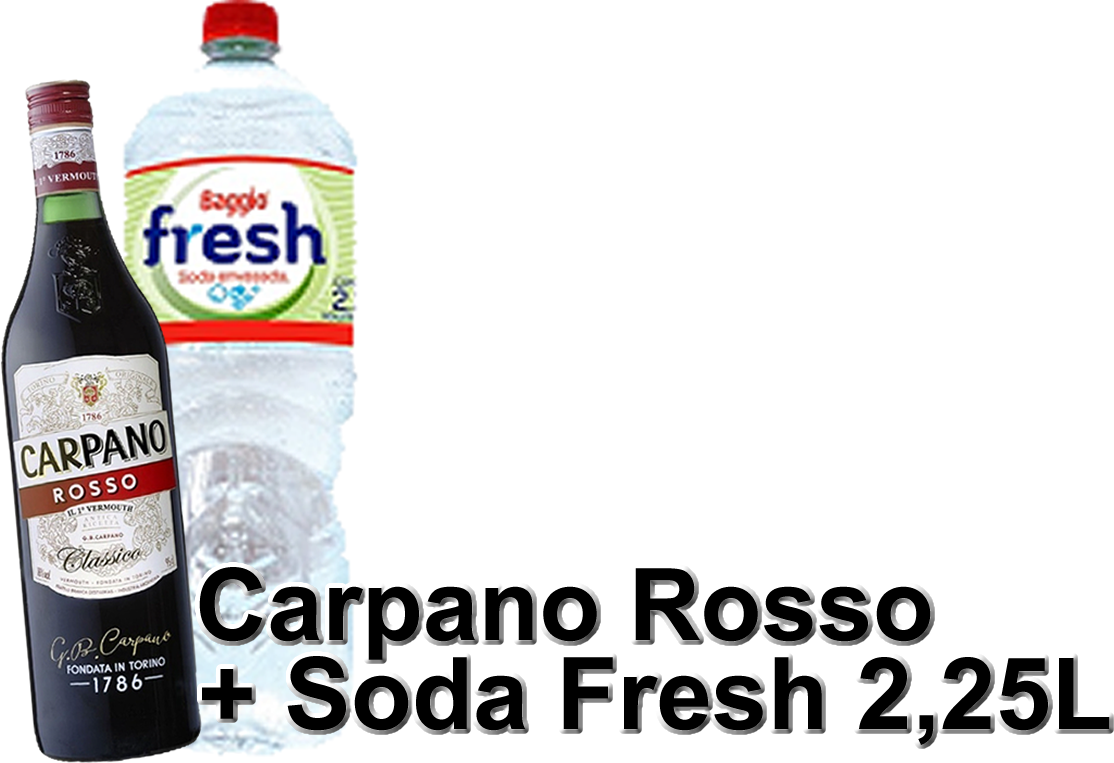
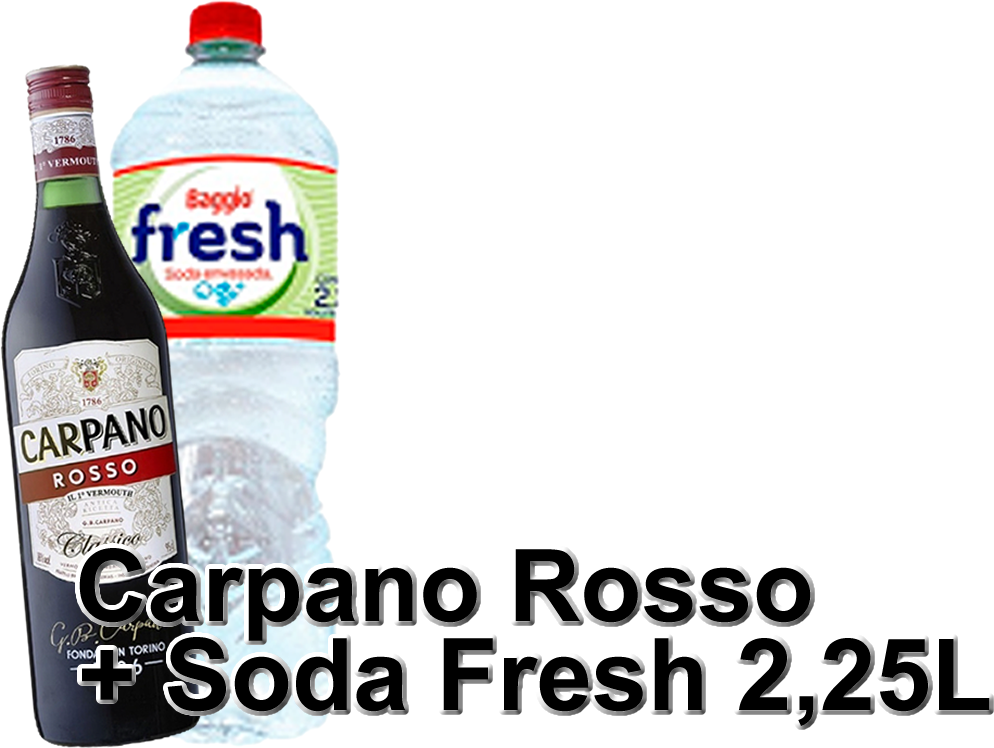
mejora de carusel

diff --git a/css/styles.css b/css/styles.css
@@ -353,63 +353,13 @@ td:nth-child(3) {
   justify-content: center;
 }
 
-.carousel {
-  margin: 10px auto;
-  width: 100%;
-  max-width: 400px;       /* Límite de ancho */
-  height: auto;
-  border-radius: 16px;
-  overflow: hidden;
- 
-}
 
-.carousel img {
-  height: 180px;         /* <-- fijamos altura también aquí */
-  max-height: 180px;
-  object-fit: contain;
-  width: 100%;
-  display: block;
-  transition: opacity 0.5s ease-in-out;
-  background-color: rgba(255, 255, 255, 0);
-  border-radius: 16px;
-}
 
-.promo-carousel-wrapper {
-  width: 100%;
-  max-width: 800px;
-  overflow: hidden;
-  border-radius: 16px;
-  touch-action: pan-y; /* permite swipe horizontal sin bloquear el scroll */
-  margin-bottom: 20px;
-  position: relative;
-}
 
-.promo-carousel-track {
-  display: flex;
-  transition: transform 0.6s ease-in-out;
-  will-change: transform;
-  cursor: grab; /* para que se note que es interactivo en desktop */
-}
 
-.promo-carousel-track img {
-  width: 100%;
-  flex: 0 0 100%;
-  object-fit: contain; /* mantener proporción */
-  height: 180px;        /* <-- Cambiado de auto a valor controlado */
-  max-height: 180px;
-  user-select: none;
-  pointer-events: none;
-  background-color: rgba(247, 208, 255, 0);
-  border-radius: 16px;
-}
 
-@media (max-width: 480px) {
-  .promo-carousel-track img,
-  .carousel img {
-    height: 140px;
-    max-height: 140px;
-  }
-}
+
+
 
 .main-footer {
   margin-top: auto;
@@ -428,3 +378,107 @@ td:nth-child(3) {
 }
 
 
+/* === Promo Banner Mejorado === */
+.promo-banner {
+  width: 100%;
+  max-width: 800px;
+  background: linear-gradient(135deg, var(--finn), var(--cosmic-2));
+  padding: 20px;
+  border-radius: 16px;
+  margin: 20px auto;
+  box-shadow: 0 10px 25px rgba(0, 0, 0, 0.1);
+  color: white;
+}
+
+.promo-banner-header h2 {
+  margin: 0 0 10px;
+  font-size: 1.6rem;
+  text-align: center;
+  color: white;
+}
+
+.promo-carousel-wrapper {
+  width: 100%;
+  max-width: 800px;
+  height: 180px;
+  overflow: hidden;
+  border-radius: 16px;
+  position: relative;
+}
+
+
+.promo-carousel-track {
+  display: flex;
+  transition: transform 0.5s ease-in-out;
+}
+
+.promo-carousel-track img {
+  flex: 0 0 calc(100% / 3);
+  max-height: 140px; /* achica el alto visible */
+  width: 100%;
+  object-fit: contain;
+  padding: 10px;
+  border-radius: 12px;
+  background: rgba(255, 255, 255, 0.048);
+  box-shadow: 0 3px 10px rgba(0, 0, 0, 0.1);
+   margin-right: 5px;
+}
+
+
+.promo-indicators {
+  text-align: center;
+  margin-top: 10px;
+}
+
+.promo-dot {
+  height: 10px;
+  width: 10px;
+  margin: 0 5px;
+  background-color: rgba(255, 255, 255, 0.5);
+  border-radius: 50%;
+  display: inline-block;
+  transition: background-color 0.3s ease;
+}
+
+.promo-dot.active {
+  background-color: rgba(0, 0, 0, 0);
+}
+
+
+
+.promo-carousel-wrapper {
+  overflow: hidden;
+  border-radius: 20px;
+  box-shadow: 0 12px 25px rgba(0, 0, 0, 0.062);
+  background: linear-gradient(145deg, var(--finn), var(--cosmic-2));
+  padding: 10px;
+  height: auto;
+  padding-bottom: 10px;
+}
+
+.promo-dot {
+  height: 12px;
+  width: 12px;
+  margin: 0 06px;
+  background-color: rgba(255, 255, 255, 0.4);
+  border: 2px solid rgba(255, 255, 255, 0);
+  border-radius: 50%;
+  display: inline-block;
+}
+
+.promo-dot.active {
+  background-color: #ffffff00;
+}
+
+@media (max-width: 768px) {
+  .promo-carousel-track img {
+    height: 120px;
+  }
+}
+
+@media (max-width: 480px) {
+  .promo-carousel-track img {
+    height: 100px;
+    flex: 0 0 calc(100% / 2); /* 2 por fila en celulares chicos */
+  }
+}

diff --git a/js/main.js b/js/main.js
@@ -6,19 +6,53 @@ const scanHistory = [];
 
 function setupCarousel() {
   const track = document.getElementById('promo-carousel-track');
-  if (!track) return;
+  const indicatorsContainer = document.getElementById('promo-indicators');
+  if (!track || !indicatorsContainer) return;
 
-  const slides = track.querySelectorAll('img');
+  const visibleSlides = 3;
+  let slides = Array.from(track.querySelectorAll('img'));
+
+  // Clonar imágenes si el total no es múltiplo de 3
+  const totalSlides = slides.length;
+  const remainder = totalSlides % visibleSlides;
+  if (remainder !== 0) {
+    const clonesNeeded = visibleSlides - remainder;
+    for (let i = 0; i < clonesNeeded; i++) {
+      const clone = slides[i % totalSlides].cloneNode(true);
+      track.appendChild(clone);
+    }
+    slides = Array.from(track.querySelectorAll('img')); // Actualizar la lista
+  }
+
+  const totalGroups = slides.length / visibleSlides;
   let index = 0;
   let interval;
 
+  // Crear indicadores
+  indicatorsContainer.innerHTML = '';
+  for (let i = 0; i < totalGroups; i++) {
+    const dot = document.createElement('span');
+    dot.classList.add('promo-dot');
+    if (i === 0) dot.classList.add('active');
+    indicatorsContainer.appendChild(dot);
+  }
+
+  const dots = indicatorsContainer.querySelectorAll('.promo-dot');
+
+  function updateIndicators() {
+    dots.forEach((dot, i) => {
+      dot.classList.toggle('active', i === index);
+    });
+  }
+
   function moveCarousel() {
-    index = (index + 1) % slides.length;
-    track.style.transform = `translateX(-${index * 100}%)`;
+    index = (index + 1) % totalGroups;
+    track.style.transform = `translateX(-${(100 / totalGroups) * index}%)`;
+    updateIndicators();
   }
 
   function startCarousel() {
-    stopCarousel(); // por seguridad, limpia primero
+    stopCarousel();
     interval = setInterval(moveCarousel, 4000);
   }
 
@@ -26,39 +60,34 @@ function setupCarousel() {
     if (interval) clearInterval(interval);
   }
 
-  // Soporte desktop: Pausar con mouse
+  // Eventos
   track.addEventListener('mouseenter', stopCarousel);
   track.addEventListener('mouseleave', startCarousel);
 
-  // Soporte táctil (mobile)
   let startX = 0;
-  let moved = false;
-
   track.addEventListener('touchstart', (e) => {
     startX = e.touches[0].clientX;
     stopCarousel();
-  });
-
-  track.addEventListener('touchmove', () => {
-    moved = true;
   });
 
   track.addEventListener('touchend', (e) => {
     const deltaX = e.changedTouches[0].clientX - startX;
     if (Math.abs(deltaX) > 50) {
       if (deltaX < 0) {
-        index = (index + 1) % slides.length;
+        index = (index + 1) % totalGroups;
       } else {
-        index = (index - 1 + slides.length) % slides.length;
+        index = (index - 1 + totalGroups) % totalGroups;
       }
-      track.style.transform = `translateX(-${index * 100}%)`;
+      track.style.transform = `translateX(-${(100 / totalGroups) * index}%)`;
+      updateIndicators();
     }
-    moved = false;
     startCarousel();
   });
 
   startCarousel();
 }
+
+
 
 
 // Mostrar estado de conexión

diff --git a/index.html b/index.html
@@ -21,19 +21,25 @@
   <h1>CATÁLOGO INTERACTIVO DE VINOS</h1>
   
   
-  <h1>PROMOS</h1>
-  <div class="promo-carousel-wrapper">
-  <div class="promo-carousel-track" id="promo-carousel-track">
-    <img src="img/promos/Buhero_Promo.png" alt="Promo Buhero" />
-    <img src="img/promos/promo_branca.png" alt="Promo Branca" />
-    <img src="img/promos/promo_campari.png" alt="Promo Campari" />
-    <img src="img/promos/promo_carpano.png" alt="Promo Carpano" />
-    <img src="img/promos/promo_gancia.png" alt="Promo Gancia" />
-    <img src="img/promos/promo_mitos.png" alt="Promo Mitos" />
-    <img src="img/promos/promo_smirnoff.png" alt="Promo Smirnoff" />
-    <img src="img/promos/ROCKY_LOLA.png" alt="Promo Rocky Lola" />
+  <section class="promo-banner">
+  <div class="promo-banner-header">
+    <h2>🎁 Promociones Destacadas</h2>
   </div>
-</div>
+  <div class="promo-carousel-wrapper">
+    <div class="promo-carousel-track" id="promo-carousel-track">
+      <img src="img/promos/Buhero_Promo.png" alt="Promo Buhero" />
+      <img src="img/promos/promo_branca.png" alt="Promo Branca" />
+      <img src="img/promos/promo_campari.png" alt="Promo Campari" />
+      <img src="img/promos/promo_carpano.png" alt="Promo Carpano" />
+      <img src="img/promos/promo_gancia.png" alt="Promo Gancia" />
+      <img src="img/promos/promo_mitos.png" alt="Promo Mitos" />
+      <img src="img/promos/promo_smirnoff.png" alt="Promo Smirnoff" />
+      <img src="img/promos/ROCKY_LOLA.png" alt="Promo Rocky Lola" />
+    </div>
+    <div class="promo-indicators" id="promo-indicators"></div>
+  </div>
+</section>
+
 
 
   <h1>Consulta de Productos</h1>
